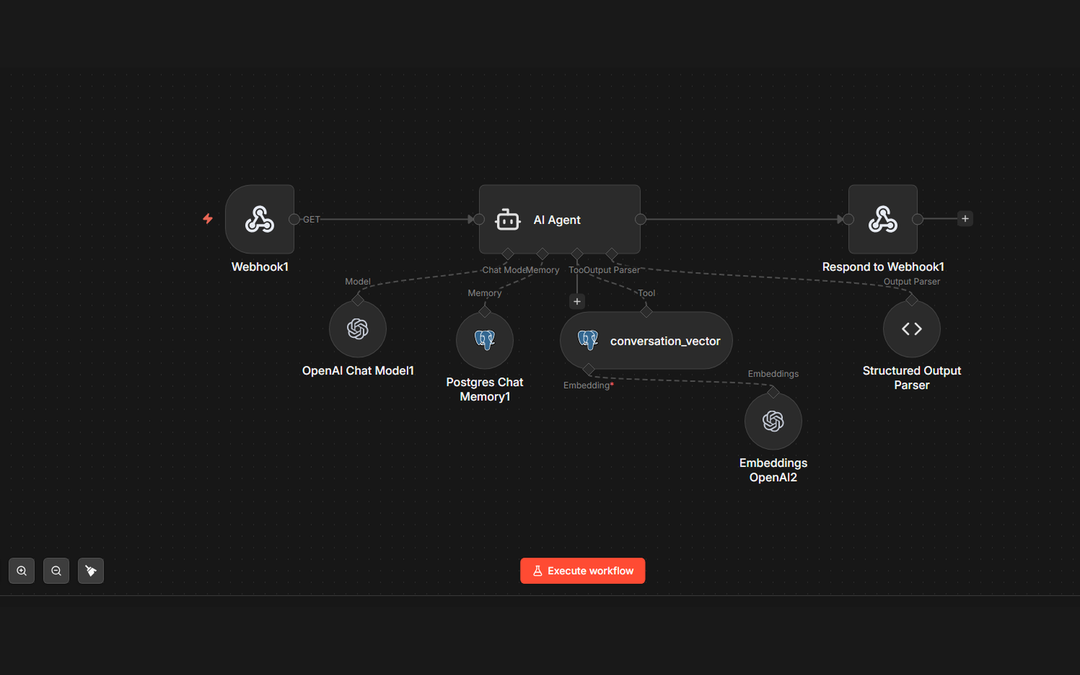
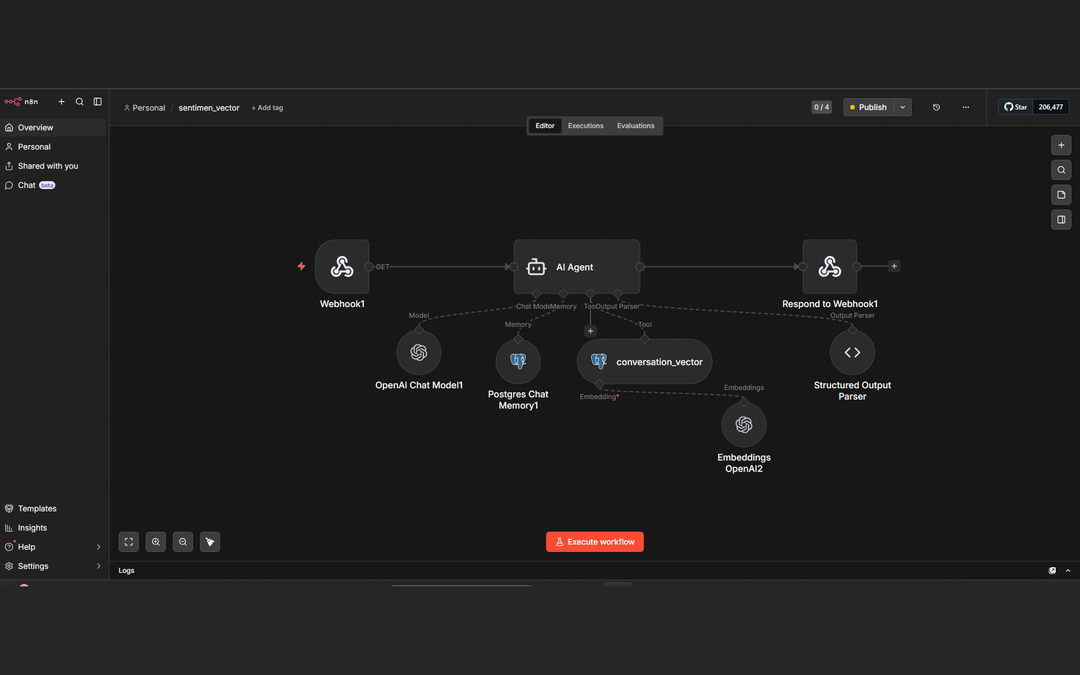
Sparkchat: ganti gambar slide pertama dengan workflow sentiment_vector terbaru

diff --git a/index.html b/index.html
@@ -550,7 +550,7 @@
               <picture>
                 <source type="image/webp" srcset="assets/projects/sparkchat/chatbot-workflow.webp">
                 <img draggable="false" src="assets/projects/sparkchat/chatbot-workflow.png" width="1600" height="1000"
-                     alt="The n8n chatbot workflow: a webhook feeds an AI Agent that uses an OpenAI chat model, a Postgres chat memory and a conversation vector store, then returns a structured parsed response to the webhook"
+                     alt="The sentiment_vector workflow in n8n: a webhook feeds an AI Agent that draws on an OpenAI chat model, a Postgres chat memory, a conversation vector tool and embeddings, then returns a structured parsed response to the webhook"
                      loading="lazy" decoding="async">
               </picture>
             </figure>
